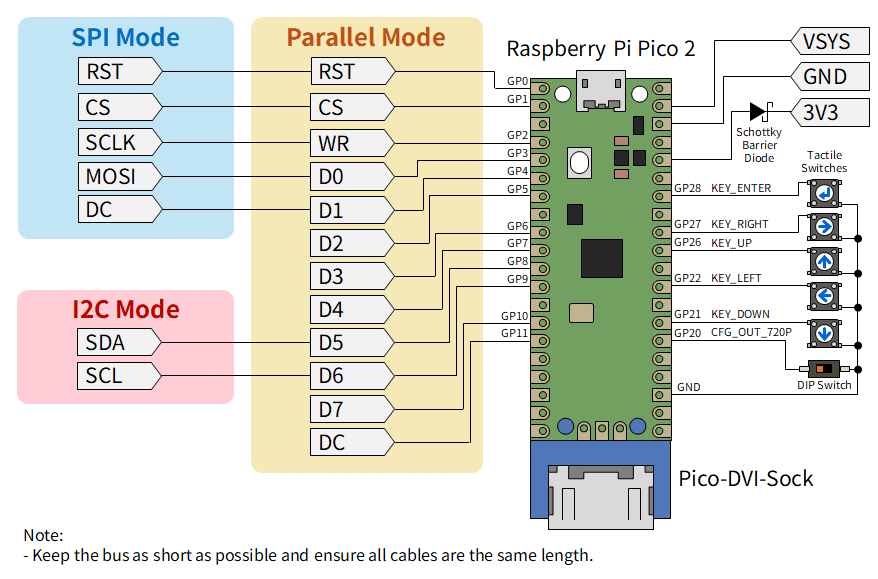
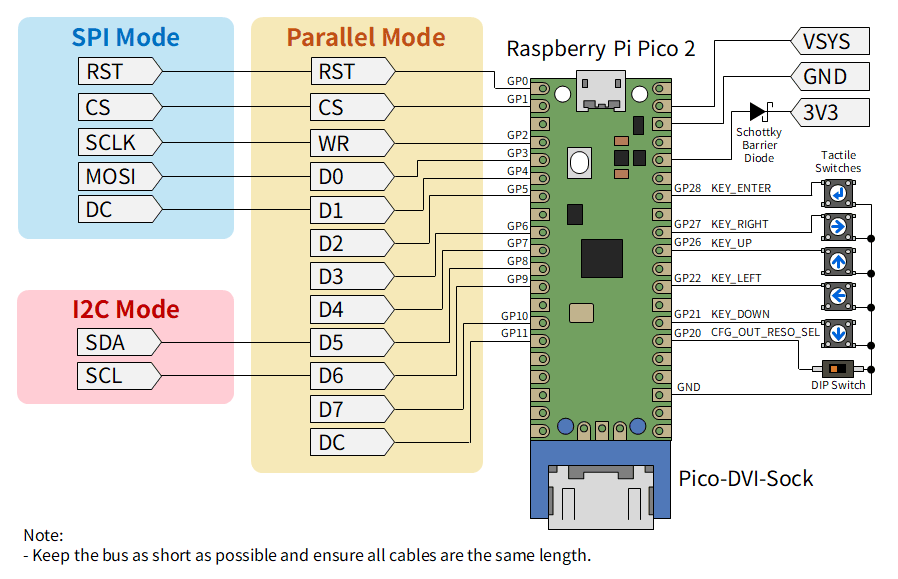
Add documentation for LcdTap-Pico2 Universal: Alternative Output Interface
- Introduced a new HTML file detailing the composite video output and DisplayLink output features.
- Included schematics and configuration instructions for both output methods.

diff --git a/docs/pico2-universal-alt-output.html b/docs/pico2-universal-alt-output.html
@@ -1,0 +1,102 @@
+<!DOCTYPE html>
+<html lang="en">
+
+<head>
+  <meta charset="UTF-8">
+  <meta name="viewport" content="width=device-width,initial-scale=1.0,minimum-scale=1.0">
+
+  <meta name="keywords"
+    content="LcdTap, LcdTap-Pico2, Raspberry Pi Pico 2, PicoDVI, DVHSTX, DVI for HSTX, LCD Controller, ST7735, ST7789, ILI9341, ILI9342, ILI9488, SSD1306, SSD1309, SSD1331" />
+  <meta name="description"
+    content="LcdTap is a library and its implementation that receives LCD controller commands and outputs the framebuffer as a DVI-D signal.">
+
+  <meta name="twitter:card" content="summary_large_image" />
+  <meta name="twitter:site" content="@shapoco" />
+  <meta property="og:url" content="https://shapoco.github.io/lcdtap/" />
+  <meta property="og:title" content="LcdTap: Mirror and Capture SPI/I2C LCD" />
+  <meta property="og:description"
+    content="LcdTap is a library and its implementation that receives LCD controller commands and outputs the framebuffer as a DVI-D signal." />
+  <meta property="og:image" content="https://shapoco.github.io/lcdtap/image/card.png" />
+
+  <!-- Google tag (gtag.js) -->
+  <script async src="https://www.googletagmanager.com/gtag/js?id=G-KJ53WNQ22G"></script>
+  <script>
+    var remoteHost = window.location.hostname;
+    if (remoteHost == "localhost") {
+      console.log(`Google Analytics disabled on: '${remoteHost}'`);
+    }
+    else {
+      window.dataLayer = window.dataLayer || [];
+      function gtag() { dataLayer.push(arguments); }
+      gtag('js', new Date());
+      gtag('config', 'G-KJ53WNQ22G');
+    }
+  </script>
+
+  <link rel="stylesheet" href="style.css">
+  <title>LcdTap-Pico2 Universal: Alternative Output Interface</title>
+  <link rel="icon" type="image/png" href="./favicon.png">
+  <link rel="shortcut icon" href="./favicon.ico">
+</head>
+
+<body>
+  <main>
+    <h1>
+      LcdTap-Pico2 Universal: Alternative Output Interface
+    </h1>
+
+    <h3>Composite Video Output</h3>
+    <p>
+      LcdTap-Pico2 Universal also supports composite video output.
+      Some external circuitry is required to use composite video output.
+      The PWM method is low quality but requires simple external circuitry.
+      The R-2R method is high quality but requires somewhat more complex external circuitry.
+    </p>
+    <p>
+      Composite output cannot be used simultaneously with parallel bus mode.
+      Also, the R-2R method cannot be used simultaneously with I2C bus mode.
+    </p>
+    <p>
+      <img src="image/composite-out-schematics.png" class="large-img" />
+    </p>
+    <p>
+      The boards sold at BOOTH have 47Ω damping resistors inserted in series on the GPIO pins,
+      so please subtract that value from the resistance values.
+    </p>
+    <p>
+      To switch to composite video output, connect the external circuitry as described above,
+      and set the Output Interface to NTSC or PAL in the Configuration menu,
+      then select the Video DAC Type (PWM or R-2R).
+    </p>
+    <p>
+      If video output does not appear and OSD control becomes unavailable,
+      please use <a href="./monitor/">LcdTap Monitor</a> to correct output interface,
+      or reset LcdTap while pressing the left key to initialize the settings.
+    </p>
+
+    <h3>DisplayLink Output</h3>
+    <p>
+      LcdTap-Pico2 Universal supports DisplayLink output
+      (powered by <a href="https://github.com/htlabnet/Pico_USB_Disp">Pico_USB_Disp</a>).
+      <strong>Only DisplayLink DL-1x0 / DL-1x5 generation adapters are supported.</strong>
+    </p>
+    <p>
+      <img src="image/displaylink-out-schematics.png" class="large-img" />
+    </p>
+    <p>
+      The output resolution can be selected using the CFG_OUT_RES_SEL switch.
+      When the switch is off, it is 1280x720@60Hz, and when on, it is 1920x1080@60Hz.
+    </p>
+    <p>
+      To switch to DisplayLink output, connect the DisplayLink adapter to
+      GPIO10 (D+) and GPIO11 (D-) of Raspberry Pi Pico 2,
+      and set the Output Interface to DisplayLink in the Configuration menu.
+    </p>
+  </main>
+
+  <footer>
+    <a href="/">LcdTap</a> by <a href="https://x.com/shapoco" target="_blank">@shapoco</a>
+  </footer>
+</body>
+
+</html>

diff --git a/docs/index.html b/docs/index.html
@@ -99,10 +99,10 @@
     <h3>Features</h3>
     <ul>
       <li>DVI-D Video Output (640x480@60Hz, 1280x720@30Hz)</li>
-      <li>Composite Video Output (NTSC/PAL, PWM or R-2R)</li>
       <li>Support for SPI, I2C, 8-bit Parallel</li>
       <li>Configuration changes via OSD and 5 buttons</li>
       <li>Configuration changes and still image capture using browser</li>
+      <li>Alternative output interfaces (Composite Video, DisplayLink)</li>
     </ul>
 
     <h3>Purchase PCB</h3>
@@ -145,33 +145,12 @@
       <a href="https://shapoco.github.io/lcdtap/monitor/" target="_blank">LcdTap Monitor</a>.
     </p>
 
-    <h3>Composite Video Output</h3>
+    <h3>Alternative Output Interface</h3>
     <p>
-      LcdTap-Pico2 Universal also supports composite video output.
-      Some external circuitry is required to use composite video output.
-      The PWM method is low quality but requires simple external circuitry.
-      The R-2R method is high quality but requires somewhat more complex external circuitry.
-    </p>
-    <p>
-      Composite output cannot be used simultaneously with parallel bus mode.
-      Also, the R-2R method cannot be used simultaneously with I2C bus mode.
-    </p>
-    <p>
-      <img src="image/composite-out-schematics.png" class="large-img" />
-    </p>
-    <p>
-      The boards sold at BOOTH have 47Ω damping resistors inserted in series on the GPIO pins,
-      so please subtract that value from the resistance values.
-    </p>
-    <p>
-      To switch to composite video output, connect the external circuitry as described above,
-      and set the Output Interface to NTSC or PAL in the Configuration menu,
-      then select the Video DAC Type (PWM or R-2R).
-    </p>
-    <p>
-      If video output does not appear and OSD control becomes unavailable,
-      please use <a href="./monitor/">LcdTap Monitor</a> to correct output interface,
-      or reset LcdTap while pressing the left key to initialize the settings.
+      LcdTap-Pico2 Universal supports composite video output and
+      DisplayLink output as alternative output interfaces.
+      For more details, see
+      <a href="./pico2-universal-alt-output.html">Alternative Output Interface</a>.
     </p>
 
     <h3>Technical Details</h3>

diff --git a/docs/cases/arduboy/index.html b/docs/cases/arduboy/index.html
@@ -95,7 +95,7 @@
           <td>Arduboy’s DC (Pin 25)</td>
         </tr>
         <tr>
-          <td>GPIO20 (CFG_OUT_720P)</td>
+          <td>GPIO20 (CFG_OUT_RESO_SEL)</td>
           <td>Select according to your display</td>
         </tr>
         <tr>

diff --git a/docs/cases/kws-x1/index.html b/docs/cases/kws-x1/index.html
@@ -92,7 +92,7 @@
           <td>KWS-X1’s DC (Pin 5)</td>
         </tr>
         <tr>
-          <td>GPIO20 (CFG_OUT_720P)</td>
+          <td>GPIO20 (CFG_OUT_RESO_SEL)</td>
           <td>Select according to your display</td>
         </tr>
         <tr>

diff --git a/docs/cases/m5stack-cores3/index.html b/docs/cases/m5stack-cores3/index.html
@@ -155,7 +155,7 @@
           <td>CoreS3’s SPI_MISO</td>
         </tr>
         <tr>
-          <td>GPIO20 (CFG_OUT_720P)</td>
+          <td>GPIO20 (CFG_OUT_RESO_SEL)</td>
           <td>Select according to your display</td>
         </tr>
         <tr>

diff --git a/docs/cases/tinyjoypad/index.html b/docs/cases/tinyjoypad/index.html
@@ -96,7 +96,7 @@
           <td>TinyJoyPad’s SCL</td>
         </tr>
         <tr>
-          <td>GPIO20 (CFG_OUT_720P)</td>
+          <td>GPIO20 (CFG_OUT_RESO_SEL)</td>
           <td>Select according to your display</td>
         </tr>
         <tr>

diff --git a/docs/cases/thumby/index.html b/docs/cases/thumby/index.html
@@ -85,7 +85,7 @@
           <td>Thumby’s DC</td>
         </tr>
         <tr>
-          <td>GPIO20 (CFG_OUT_720P)</td>
+          <td>GPIO20 (CFG_OUT_RESO_SEL)</td>
           <td>Select according to your display</td>
         </tr>
         <tr>

diff --git a/example/pico2_universal/src/main.cpp b/example/pico2_universal/src/main.cpp
@@ -411,12 +411,12 @@ int main() {
     gpio_pull_up(pin);
   }
 
-  gpio_init(PIN_CFG_OUT_720P);
-  gpio_set_dir(PIN_CFG_OUT_720P, GPIO_IN);
-  gpio_pull_up(PIN_CFG_OUT_720P);
+  gpio_init(PIN_CFG_OUT_RESO_SEL);
+  gpio_set_dir(PIN_CFG_OUT_RESO_SEL, GPIO_IN);
+  gpio_pull_up(PIN_CFG_OUT_RESO_SEL);
   sleep_ms(1);
 
-  const bool dvi720p = !gpio_get(PIN_CFG_OUT_720P);  // LOW=720p (active-low)
+  const bool dvi720p = !gpio_get(PIN_CFG_OUT_RESO_SEL);  // LOW=720p (active-low)
 
   const uint16_t lcdW = LCDTAP_LCD_SIZE_W;
   const uint16_t lcdH = LCDTAP_LCD_SIZE_H;
@@ -472,12 +472,12 @@ int main() {
   //    DVI-D : PLL_USB → clk_sys=312MHz; PLL_SYS → clk_hstx=bit_clk/2
   //    NTSC  : PLL_SYS → clk_sys=315.000MHz (÷22 = 4x fsc, exact)
   //    PAL   : PLL_SYS → clk_sys=301.500MHz (÷17 = 4x fsc, +46 ppm)
-  //    Composite ignores PIN_CFG_OUT_720P and the RIGHT-key timing override;
+  //    Composite ignores PIN_CFG_OUT_RESO_SEL and the RIGHT-key timing override;
   //    those only select between DVI-D modes.
   //    DisplayLink reuses the DVI-D clock setup: the PIO USB host needs
   //    clk_sys to be a multiple of 12 MHz and 312 MHz qualifies, clk_usb
   //    stays at 48 MHz for the CDC interface, and the (unused) HSTX clock is
-  //    harmless. PIN_CFG_OUT_720P selects the adapter mode instead:
+  //    harmless. PIN_CFG_OUT_RESO_SEL selects the adapter mode instead:
   //    HIGH = 1280x720, LOW = 1920x1080.
   // -------------------------------------------------------------------------
   if (cvbsTiming != nullptr) {

diff --git a/example/pico2_ssd1306/src/main.cpp b/example/pico2_ssd1306/src/main.cpp
@@ -81,7 +81,7 @@ int main() {
   //    All config pins are active-low with internal pull-ups.
   //    Default (not connected, HIGH) = primary mode; LOW = alternate mode.
   // -------------------------------------------------------------------------
-  for (uint pin : {PIN_CFG_IFACE_SEL, PIN_CFG_OUT_720P, PIN_CFG_LCD_SIZE_SEL,
+  for (uint pin : {PIN_CFG_IFACE_SEL, PIN_CFG_OUT_RESO_SEL, PIN_CFG_LCD_SIZE_SEL,
                    PIN_CFG_ROT0, PIN_CFG_ROT1}) {
     gpio_init(pin);
     gpio_set_dir(pin, GPIO_IN);
@@ -92,7 +92,7 @@ int main() {
   const bool useI2C =
       gpio_get(PIN_CFG_IFACE_SEL);  // HIGH=I2C (default), LOW=SPI
   const bool dvi720p =
-      !gpio_get(PIN_CFG_OUT_720P);  // LOW=720p, HIGH=480p (default)
+      !gpio_get(PIN_CFG_OUT_RESO_SEL);  // LOW=720p, HIGH=480p (default)
   const bool useSz2 =
       !gpio_get(PIN_CFG_LCD_SIZE_SEL);  // LOW=Size2, HIGH=Size1 (default)
   const int rot = static_cast<int>((!gpio_get(PIN_CFG_ROT1) ? 2u : 0u) |

diff --git a/example/pico2_st7789/src/main.cpp b/example/pico2_st7789/src/main.cpp
@@ -74,7 +74,7 @@ int main() {
   //    All config pins are active-low with internal pull-ups.
   //    Default (not connected, HIGH) = primary mode; LOW = alternate mode.
   // -------------------------------------------------------------------------
-  for (uint pin : {PIN_CFG_OUT_720P, PIN_CFG_LCD_SIZE_SEL, PIN_CFG_INVERTED,
+  for (uint pin : {PIN_CFG_OUT_RESO_SEL, PIN_CFG_LCD_SIZE_SEL, PIN_CFG_INVERTED,
                    PIN_CFG_SWAP_RB, PIN_CFG_ROT0, PIN_CFG_ROT1}) {
     gpio_init(pin);
     gpio_set_dir(pin, GPIO_IN);
@@ -83,7 +83,7 @@ int main() {
   sleep_ms(1);  // allow pull-ups to settle
 
   const bool dvi720p =
-      !gpio_get(PIN_CFG_OUT_720P);  // LOW=720p, HIGH=480p (default)
+      !gpio_get(PIN_CFG_OUT_RESO_SEL);  // LOW=720p, HIGH=480p (default)
   const bool useSz2 =
       !gpio_get(PIN_CFG_LCD_SIZE_SEL);  // LOW=Size2, HIGH=Size1 (default)
   const bool inverted =

diff --git a/example/pico2_universal/include/config.h b/example/pico2_universal/include/config.h
@@ -86,7 +86,7 @@ static constexpr uint8_t USB_PIO_INDEX = 0u;
 // =============================================================================
 
 // LOW=1280×720@30Hz / HIGH=640×480@60Hz (default)
-static constexpr uint PIN_CFG_OUT_720P = 20u;
+static constexpr uint PIN_CFG_OUT_RESO_SEL = 20u;
 
 // =============================================================================
 // Key inputs (active-low, internal pull-up)

diff --git a/example/pico2_st7789/include/config.h b/example/pico2_st7789/include/config.h
@@ -38,7 +38,7 @@ static constexpr uint PIN_SPI_DC = 4u;
 // =============================================================================
 
 // LOW=1280×720@30Hz / HIGH=640×480@60Hz (default)
-static constexpr uint PIN_CFG_OUT_720P = 20u;
+static constexpr uint PIN_CFG_OUT_RESO_SEL = 20u;
 
 // LOW=Size2 / HIGH=Size1 (default)
 static constexpr uint PIN_CFG_LCD_SIZE_SEL = 21u;
